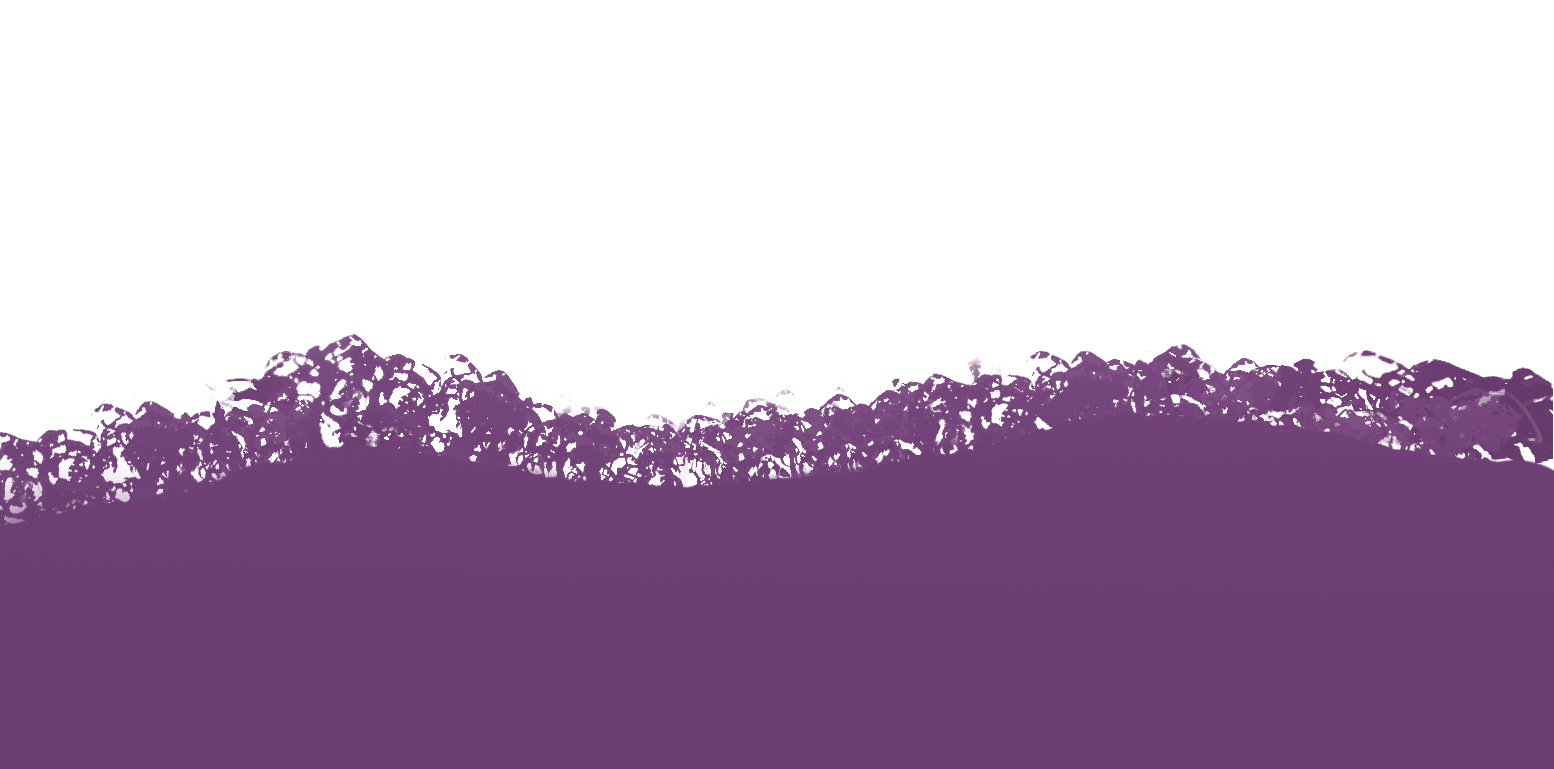
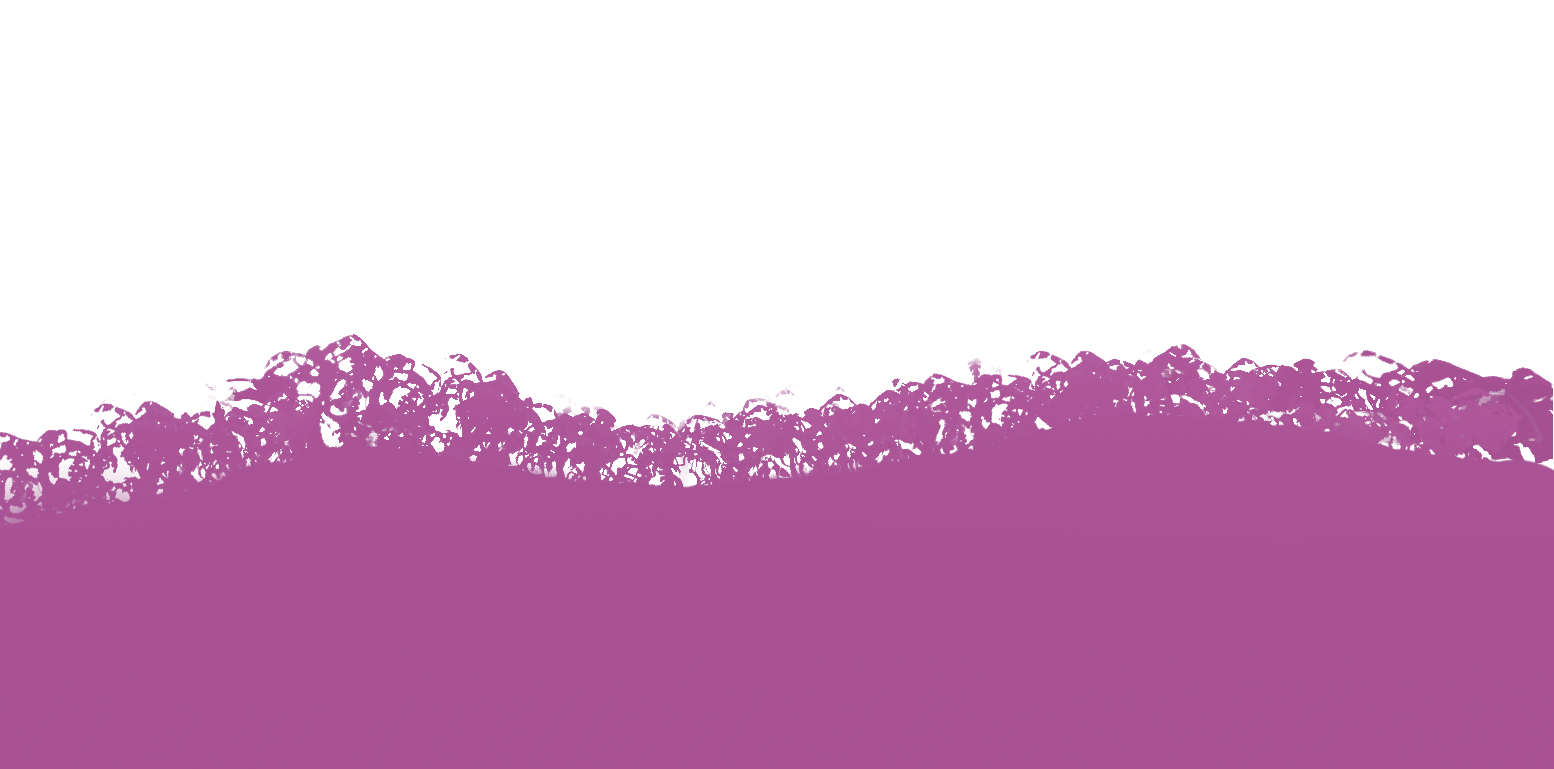
I'm so done. Back to gif.

diff --git a/css/style.css b/css/style.css
@@ -99,17 +99,8 @@ p {
 }
 
 .layer-4 {
-  width: 1526px;
-  height: 780px;
-  background-image: url("../assets/sprite_layer.png");
-  position: absolute;
-  bottom: 0;
-  top: 0;
-  left: 0;
-  right: 0;
-  border: solid 1px black;
-  -webkit-animation: playv 3.6s steps(2) infinite, playh 0.3s steps(12) infinite;
-  animation: playv 3.6s steps(2) infinite, playh 0.3s steps(12) infinite;
+  background-image: url("../assets/gif-layer_cut_MidQ.gif");
+  background-size: cover
 }
 
 @-webkit-keyframes playv {
